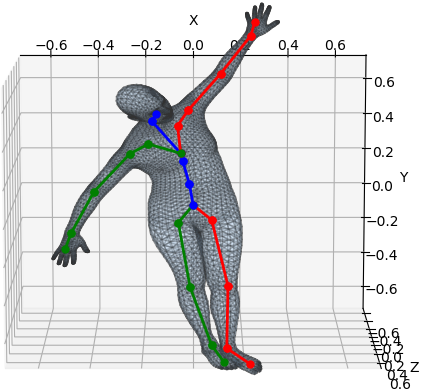
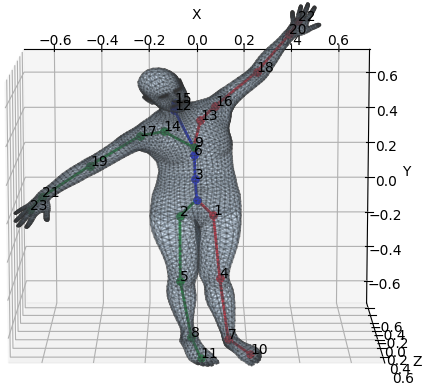
Add joint numbers for skel viz.

diff --git a/display_utils.py b/display_utils.py
@@ -48,7 +48,7 @@ def display_model(
     return ax
 
 
-def draw_skeleton(joints3D, kintree_table, ax=None):
+def draw_skeleton(joints3D, kintree_table, ax=None, with_numbers=True):
     if ax is None:
         fig = plt.figure(frameon=False)
         ax = fig.add_subplot(111, projection='3d')
@@ -68,4 +68,6 @@ def draw_skeleton(joints3D, kintree_table, ax=None):
                 [joints3D[j1, 1], joints3D[j2, 1]],
                 [joints3D[j1, 2], joints3D[j2, 2]],
                 color=colors[i], linestyle='-', linewidth=2, marker='o', markersize=5)
+        if with_numbers:
+            ax.text(joints3D[j2, 0], joints3D[j2, 1], joints3D[j2, 2], j2)
     return ax
